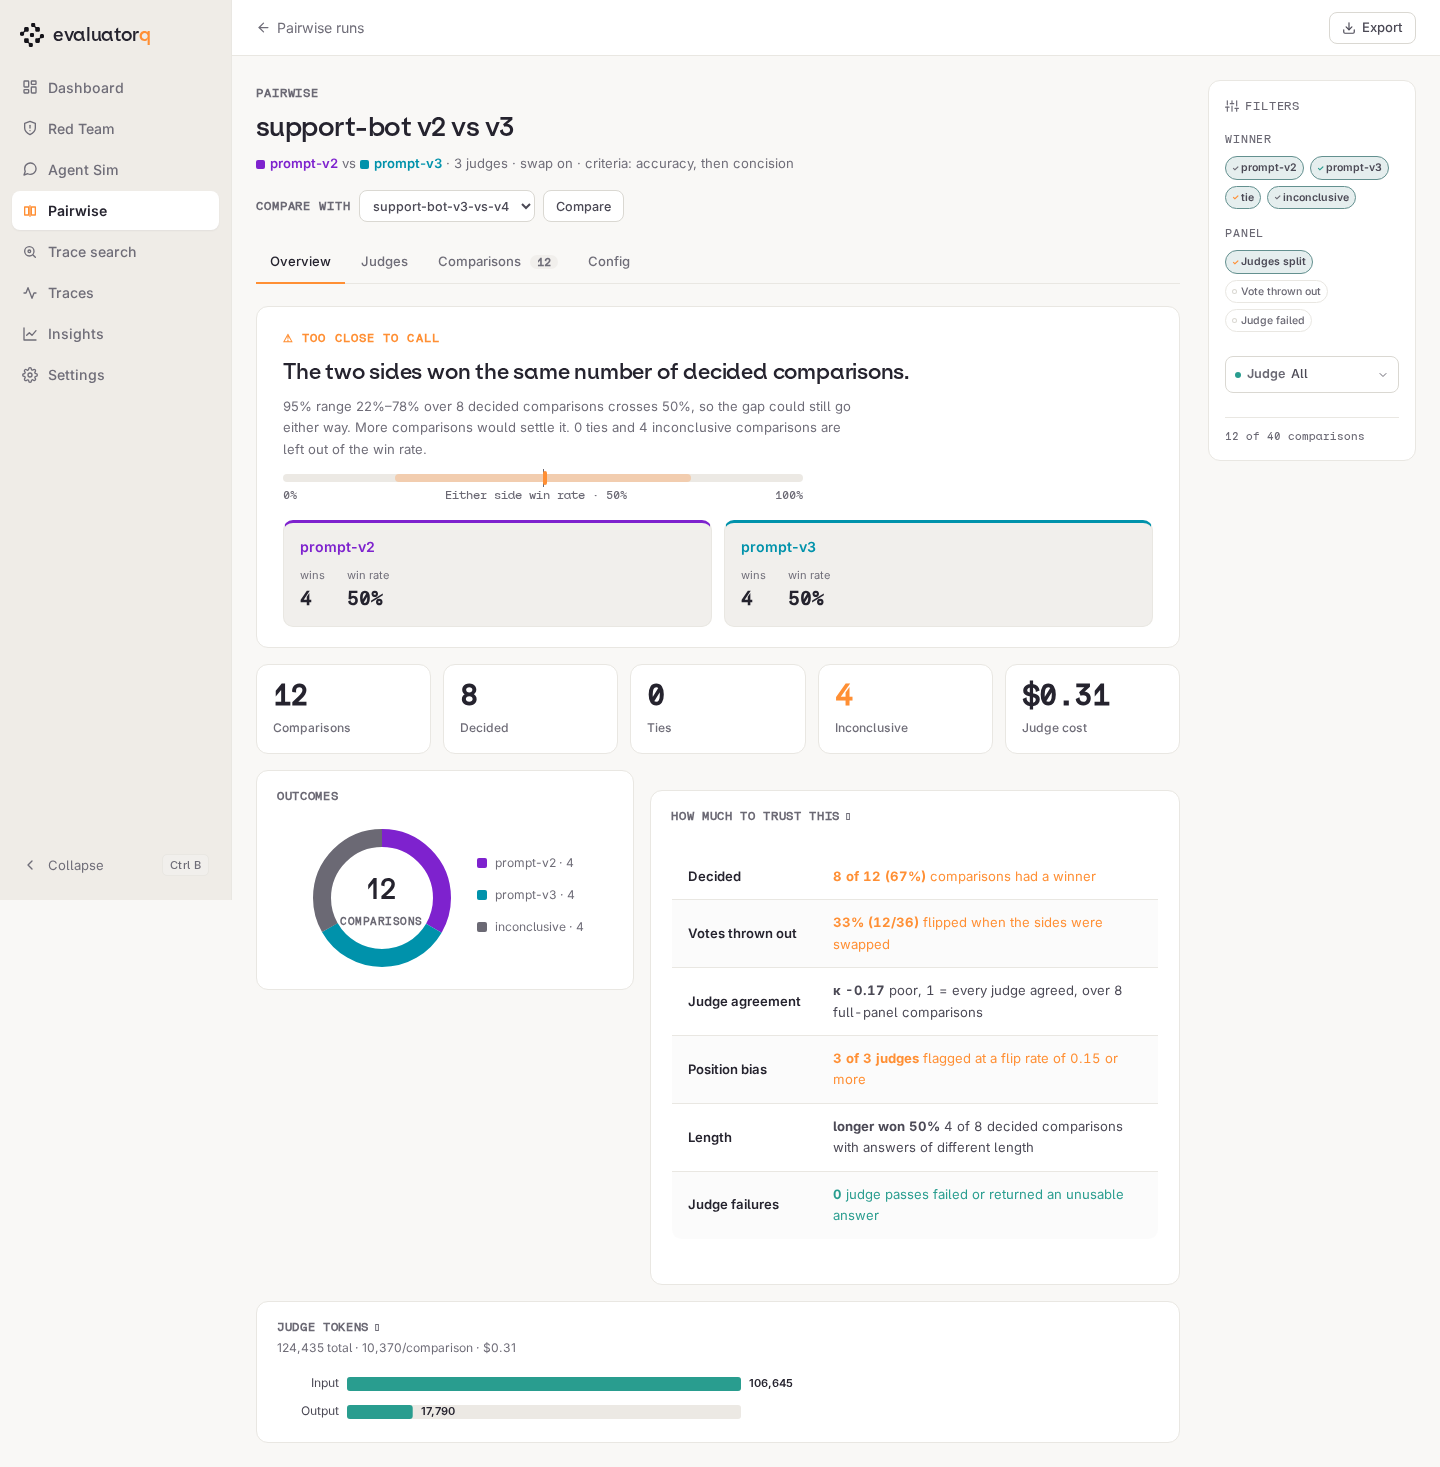
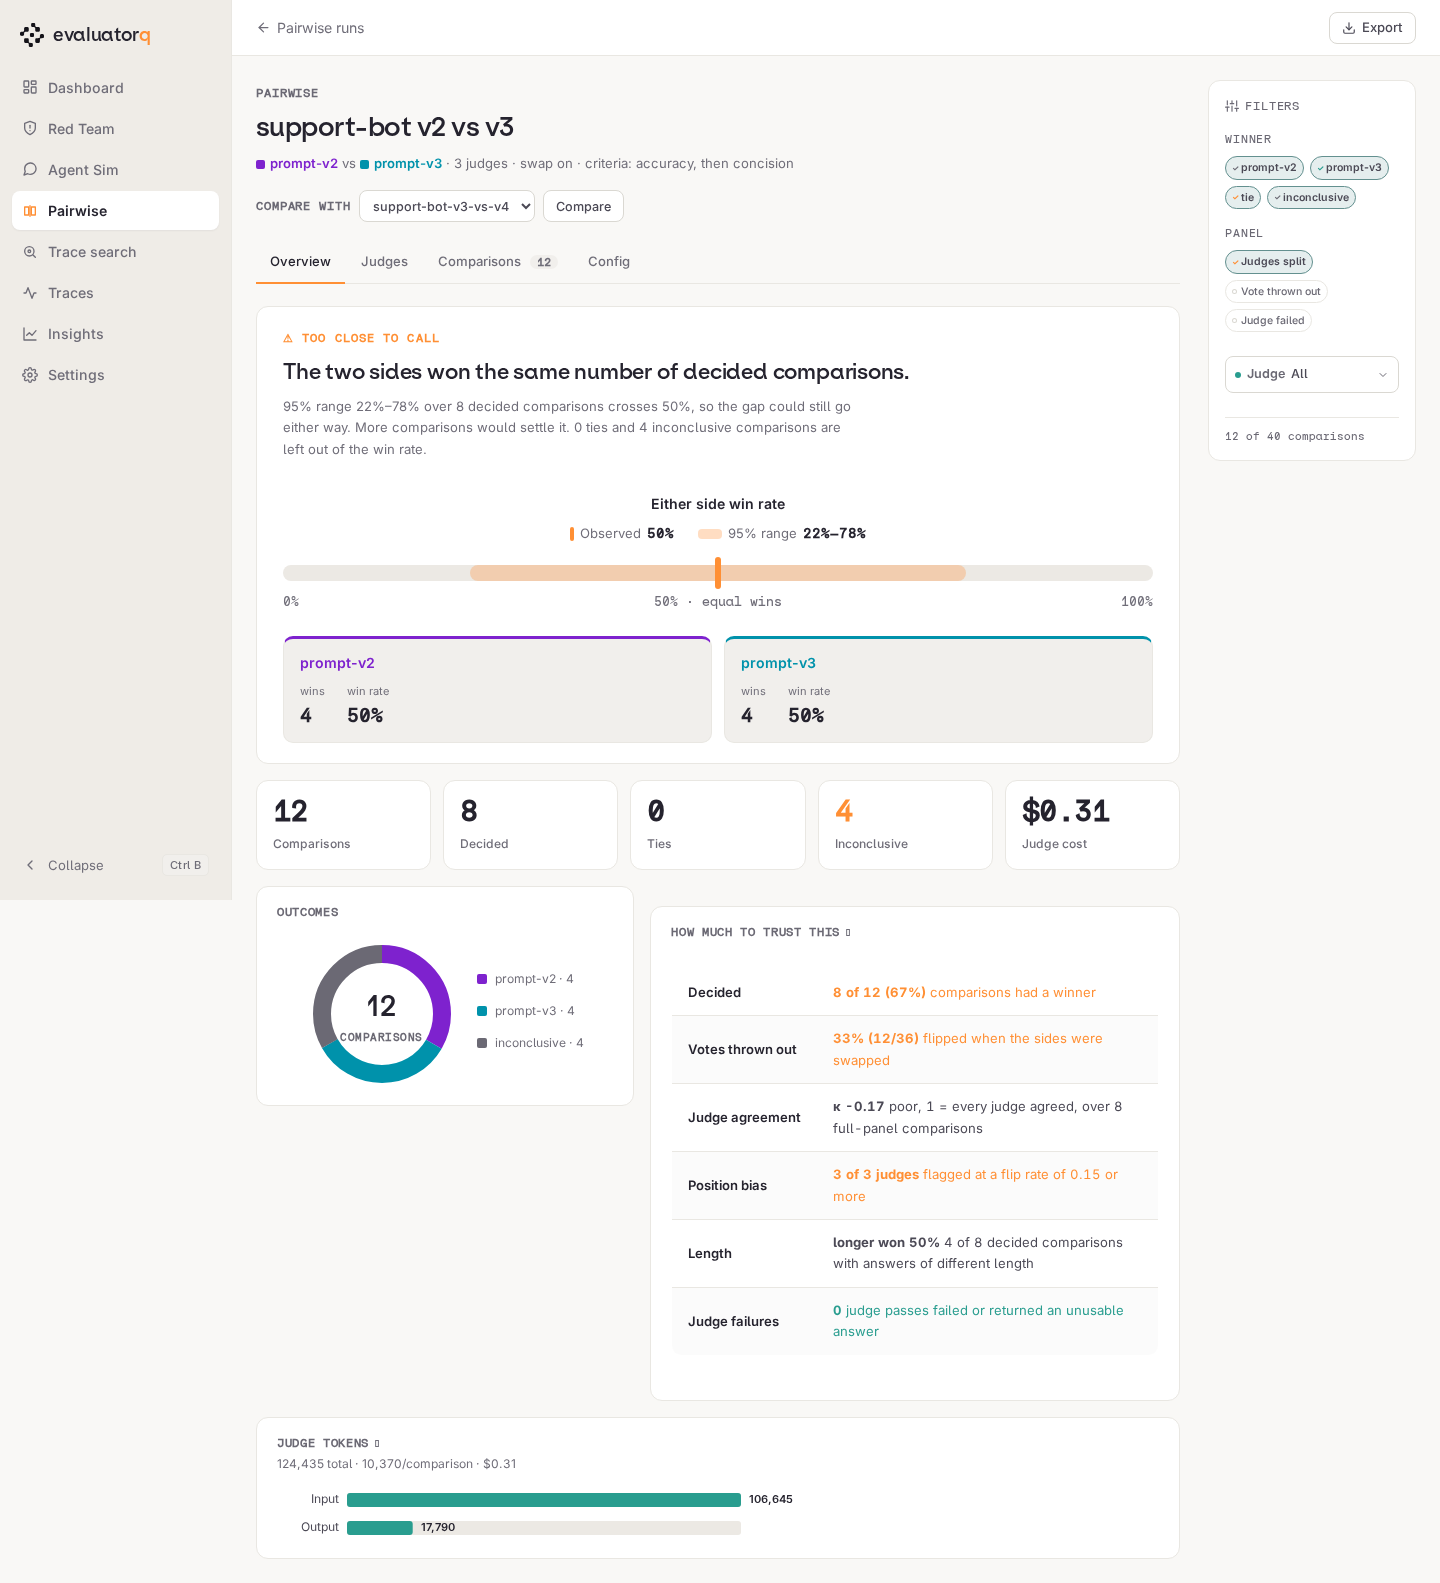
fix(dashboard): enlarge and clarify the pairwise hero chart

diff --git a/src/evaluatorq/dashboard/styles.py b/src/evaluatorq/dashboard/styles.py
@@ -3739,11 +3739,22 @@ _PAIRWISE_REPORT_CSS = """
 .pw-report .pw-side-card .mets { display: flex; gap: 22px; margin-top: 8px; }
 .pw-report .pw-side-card .met span { display: block; font-size: 11px; color: var(--text-muted); }
 .pw-report .pw-side-card .met b { font-family: var(--font-mono); font-size: 18px; font-weight: 600; color: var(--text-strong); }
-.pw-report .pw-ci { position: relative; height: 8px; border-radius: 4px; background: var(--chart-track); margin: 14px 0 4px; max-width: 520px; }
-.pw-report .pw-ci-range { position: absolute; top: 0; height: 8px; border-radius: 4px; background: color-mix(in srgb, var(--c) 30%, transparent); }
-.pw-report .pw-ci-dot { position: absolute; top: -3px; width: 4px; height: 14px; border-radius: 2px; background: var(--c); }
-.pw-report .pw-ci-mid { position: absolute; top: -5px; left: 50%; width: 1px; height: 18px; background: var(--text-faint); }
-.pw-report .pw-ci-cap { font-family: var(--font-mono); font-size: 11px; color: var(--text-faint); max-width: 520px; display: flex; justify-content: space-between; }
+.pw-report .pw-ci-figure { width: 100%; max-width: 960px; margin: 32px auto 24px; }
+.pw-report .pw-ci-title { text-align: center; font-size: 14px; font-weight: 600; color: var(--text-strong); overflow-wrap: anywhere; }
+.pw-report .pw-ci-readout { display: flex; flex-wrap: wrap; justify-content: center; gap: 8px 24px; margin: 8px 0 20px;
+  font-size: 13px; color: var(--text-muted); }
+.pw-report .pw-ci-readout > span { display: inline-flex; align-items: center; gap: 6px; }
+.pw-report .pw-ci-readout strong { color: var(--text-strong); font-family: var(--font-mono); font-weight: 600; }
+.pw-report .pw-ci-key-dot { width: 4px; height: 14px; border-radius: 2px; background: var(--c); }
+.pw-report .pw-ci-key-range { width: 24px; height: 10px; border-radius: 4px; background: color-mix(in srgb, var(--c) 30%, transparent); }
+.pw-report .pw-ci { position: relative; height: 16px; border-radius: 8px; background: var(--chart-track); }
+.pw-report .pw-ci-range { position: absolute; top: 0; height: 100%; border-radius: 8px; background: color-mix(in srgb, var(--c) 30%, transparent); }
+.pw-report .pw-ci-dot { position: absolute; top: -8px; width: 6px; height: 32px; border-radius: 3px; background: var(--c); transform: translateX(-50%); }
+.pw-report .pw-ci-mid { position: absolute; top: -6px; left: 50%; width: 2px; height: 28px; background: var(--text-muted); transform: translateX(-50%); }
+.pw-report .pw-ci-cap { font-family: var(--font-mono); font-size: 12px; color: var(--text-muted); margin-top: 12px;
+  display: grid; grid-template-columns: 1fr 2fr 1fr; align-items: start; }
+.pw-report .pw-ci-cap > span:nth-child(2) { text-align: center; }
+.pw-report .pw-ci-cap > span:last-child { text-align: right; }
 .pw-report .pw-grid-2 { display: grid; grid-template-columns: 1fr 1.4fr; gap: 16px; margin: 16px 0; align-items: start; }
 .pw-report .pw-trust td { text-align: left !important; }
 .pw-report .pw-trust td:first-child { font-weight: 600; color: var(--text-strong); white-space: nowrap; }

diff --git a/src/evaluatorq/dashboard/pairwise_tabs.py b/src/evaluatorq/dashboard/pairwise_tabs.py
@@ -128,11 +128,23 @@ def _interval_bar(v: Verdict) -> str:
         return ''
     colour = pw_side_colour(v.leader or 'tie')
     who = v.leader_label or 'Either side'
+    description = (
+        f'{who} won {v.win_rate:.0%} of {v.decided} decided comparisons. '
+        f'95% uncertainty range: {v.low:.0%} to {v.high:.0%}. 50% means equal wins.'
+    )
     return (
-        f'<div class="pw-ci" style="--c:{colour}"><div class="pw-ci-mid"></div>'
+        f'<figure class="pw-ci-figure" style="--c:{colour}">'
+        f'<figcaption class="pw-ci-title">{esc(who)} win rate</figcaption>'
+        '<div class="pw-ci-readout">'
+        f'<span><i class="pw-ci-key-dot" aria-hidden="true"></i>Observed <strong>{v.win_rate:.0%}</strong></span>'
+        f'<span><i class="pw-ci-key-range" aria-hidden="true"></i>95% range '
+        f'<strong>{v.low:.0%}\u2013{v.high:.0%}</strong></span></div>'
+        f'<div class="pw-ci" role="img" aria-label="{esc(description)}">'
         f'<div class="pw-ci-range" style="left:{v.low * 100:.1f}%;width:{(v.high - v.low) * 100:.1f}%"></div>'
+        '<div class="pw-ci-mid"></div>'
         f'<div class="pw-ci-dot" style="left:{v.win_rate * 100:.1f}%"></div></div>'
-        f'<div class="pw-ci-cap"><span>0%</span><span>{esc(who)} win rate · 50%</span><span>100%</span></div>'
+        '<div class="pw-ci-cap"><span>0%</span><span>50% · equal wins</span><span>100%</span></div>'
+        '</figure>'
     )
 
 

diff --git a/CHANGELOG.md b/CHANGELOG.md
@@ -8,6 +8,7 @@ All notable changes to `evaluatorq` are documented here.
 
 - **Pairwise dashboard judge cost is shown only when every comparison has a recorded price.** Runs with partial price coverage show recorded judge tokens instead of presenting a partial dollar sum as the whole-run cost.
 - **Pairwise agreement requires at least two explicitly configured judges; absent panel metadata is not inferred from stand-in votes.** Run comparison reports zero actual comparisons for empty runs and returns a corrupt-report error for invalid UTF-8 instead of crashing.
+- **The pairwise verdict chart is larger and centered, with separate labels for the observed win rate, its 95% range, and the 50% equal-win reference.** The full 0–100% scale and statistical calculation are unchanged.
 
 - Added: **a Settings-gated compression inspector** compares the readable Orq trace or Claude Code, Claude desktop, and Codex session with the actual structured Jev state. It applies the configured global cap, shows exact character and omission counts, makes no model call, and accepts explicit Orq dates for traces older than the default seven-day window. A knobs form exposes every limit and include switch of the readable view and of the Jev state, updates the preview live and resets to defaults; the loaded trace is held only in memory. `jev_state` takes a new `JevOptions` argument whose defaults keep the classifier's behaviour. The Original pane now shows the canonical ATIF trajectory by default, or the raw Claude Code, Claude desktop or Codex session file, or the readable text, all scrubbed of known secrets and cut to a visible limit, and a Wrap long lines option wraps both panes. A **Describe what is present and absent at the start** checkbox (on by default) puts a `[context: ...]` line before the readable text and a `context` object before the Jev state, naming the message types included, left out (such as reasoning or tool results) or absent from the trace and how each is cut; it is opt-in through `full_conversation_view(coverage_header=True)` and `JevOptions(coverage=True)` and off for Insights and classifier inputs.
 - **The compression inspector defaults to eight opt-in readable-format switches and three Jev-format switches.** Readable previews support indexed message blocks, paired tool results, plain tool inputs, part-labelled exact cuts, terminal-noise removal, working-directory shortening, repeated-output collapse and encoded-blob collapse. Jev previews support located source-gap omissions, identifiers/status before text and removal of empty fields. Reset restores every switch; pairing becomes inactive with blocks off without losing its selection. Omission counts use unique absent source indexes, including excluded roles and grouped tool results, and marker metadata stays within the cap. A coverage header no longer hides the empty-readable-body notice. Production Insights and classifier defaults are unchanged; these options remain off outside the inspector.

diff --git a/docs/dashboard.md b/docs/dashboard.md
@@ -222,6 +222,8 @@ A pairwise run opens on a verdict: which side won, and whether the run has enoug
 
 **Overview.** The verdict card names the leader and its win rate over decided comparisons, with a 95% range (a Wilson interval). It reads `✓ Clear winner` when that range stays above 50%, `⚠ Too close to call` when it crosses 50%, and `No decided comparisons` when every comparison ended in a tie or was inconclusive. Ties and inconclusive comparisons are left out of the win rate. Below it, the outcome donut and the **How much to trust this** table list signals about the run itself, such as how many comparisons were decided, how often judges split, and how many votes were thrown out; amber means read the verdict with care. A judge tokens panel appears when the judges' usage was recorded. If only some comparisons carry usage, the panel says how many.
 
+**Reading the hero chart.** The solid marker shows the observed win rate of the named side; the shaded band shows its 95% uncertainty range. Both sit on the same 0–100% scale. The center reference, `50% · equal wins`, means neither side has an advantage. If the band crosses that reference, the observed lead is too uncertain to call a winner. For example, three wins out of four decided comparisons gives an observed rate of 75%, but its range is about 30–95%, so the report still reads **Too close to call**.
+
 ![The Overview tab of a pairwise run: the verdict card with its 95% range, count tiles, the outcome donut beside the trust table, and the tab bar for Judges, Comparisons and Config.](assets/dashboard-pairwise.png){ .dashboard-shot }
 
 **Judges.** One row per judge with its win rate for each side, tie rate, failed passes and position bias, plus consistency when repeated passes make it measurable. A judge whose position bias reaches 0.15 is flagged: it changed its pick when the sides were swapped, so its votes say more about ordering than quality. The column reads `n/a` rather than `0.00` wherever nothing was flippable, since there was no measurement to make. Whether swapping happened is read from the votes rather than from the saved `swap` flag, so a run saved with the default `swap=True` but executed single-ordering is labelled `on (never observed)`.
